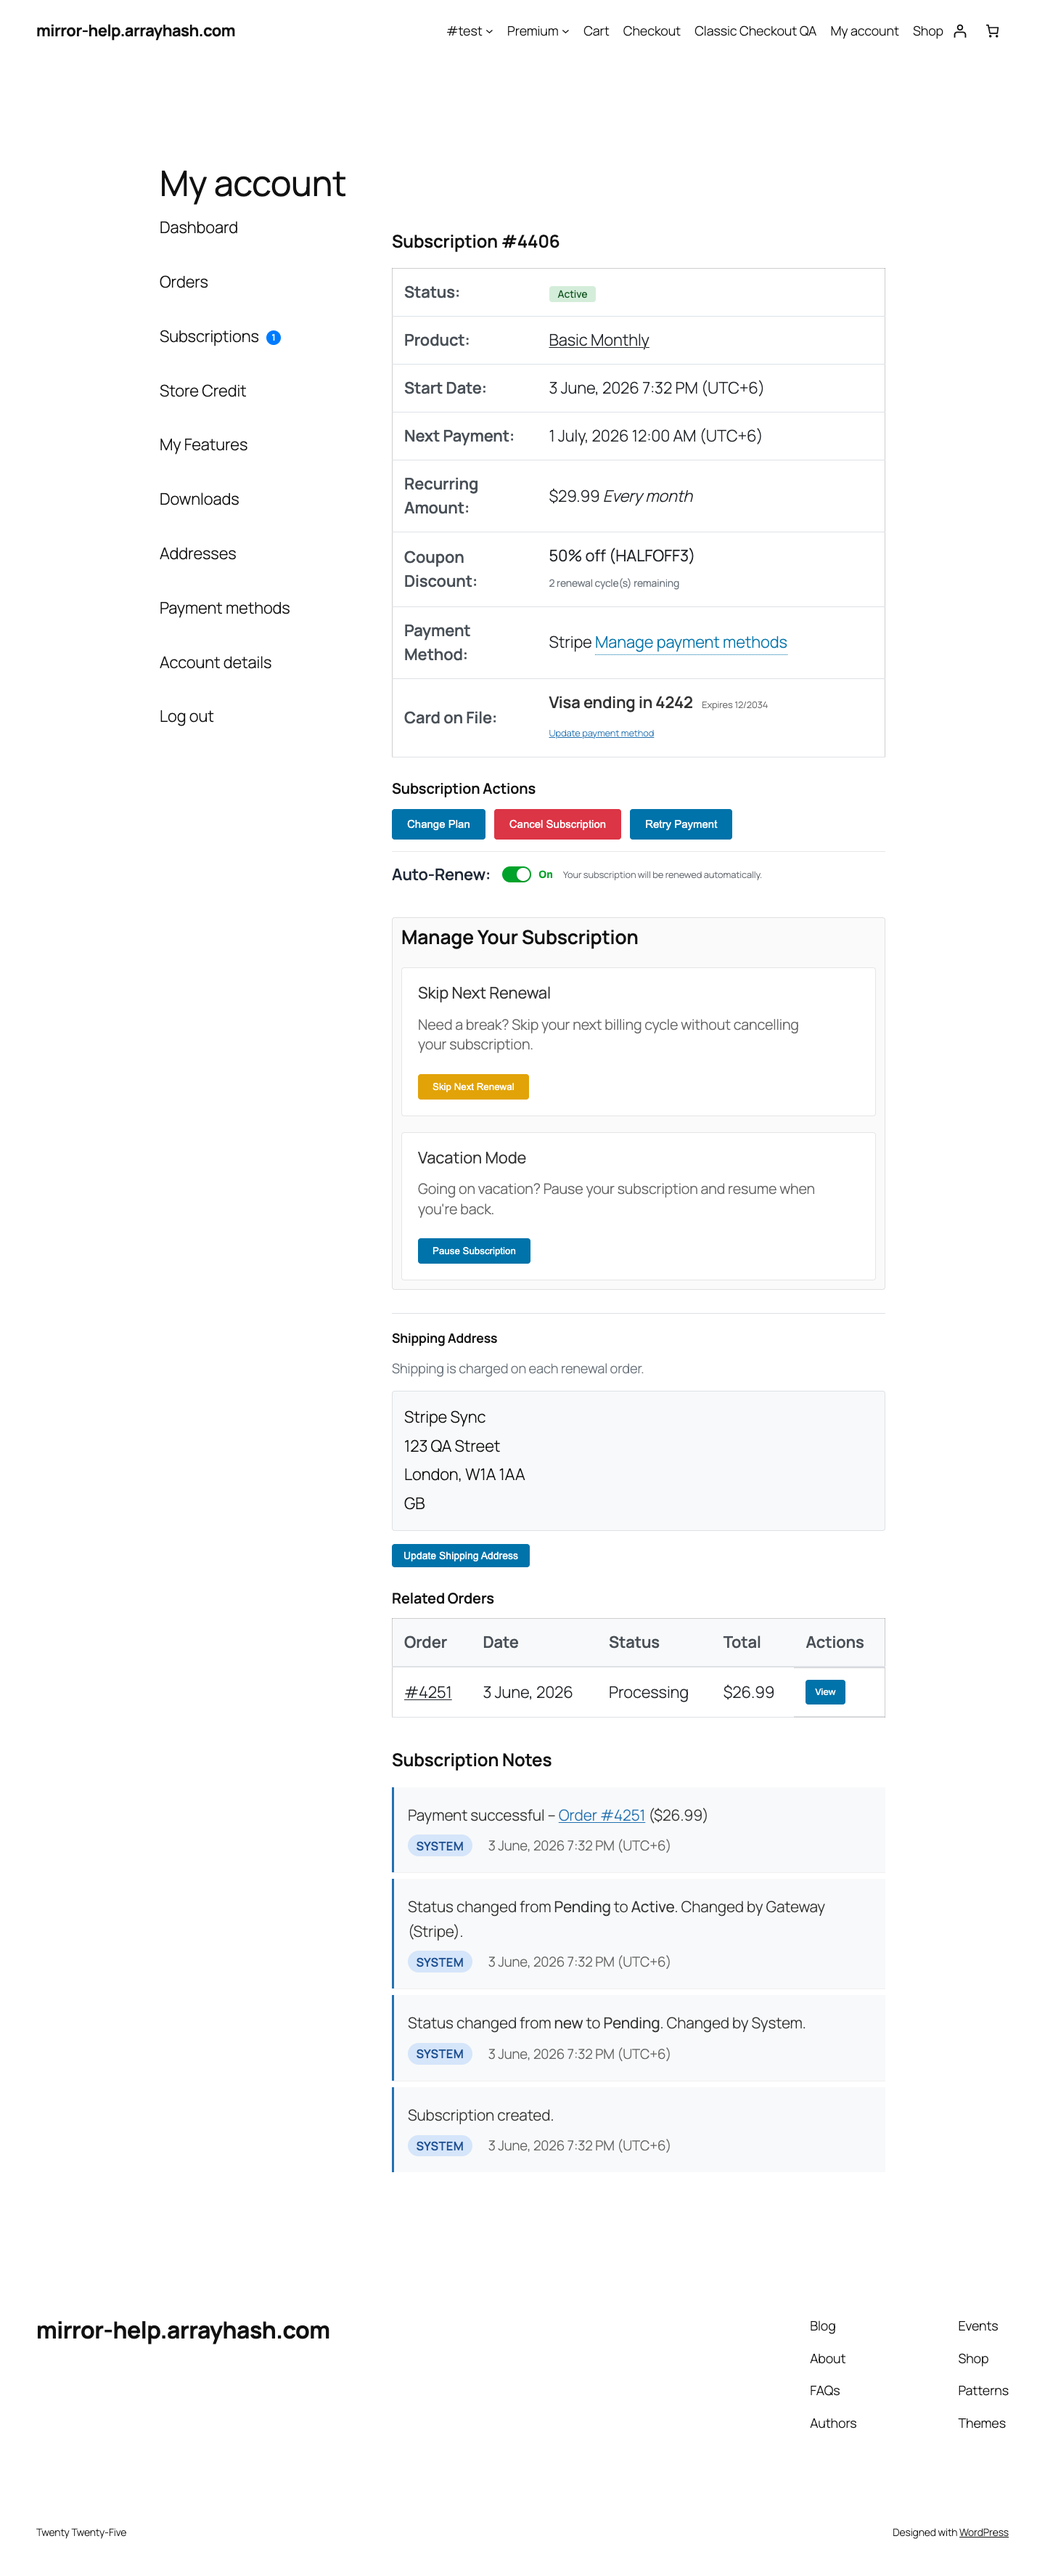
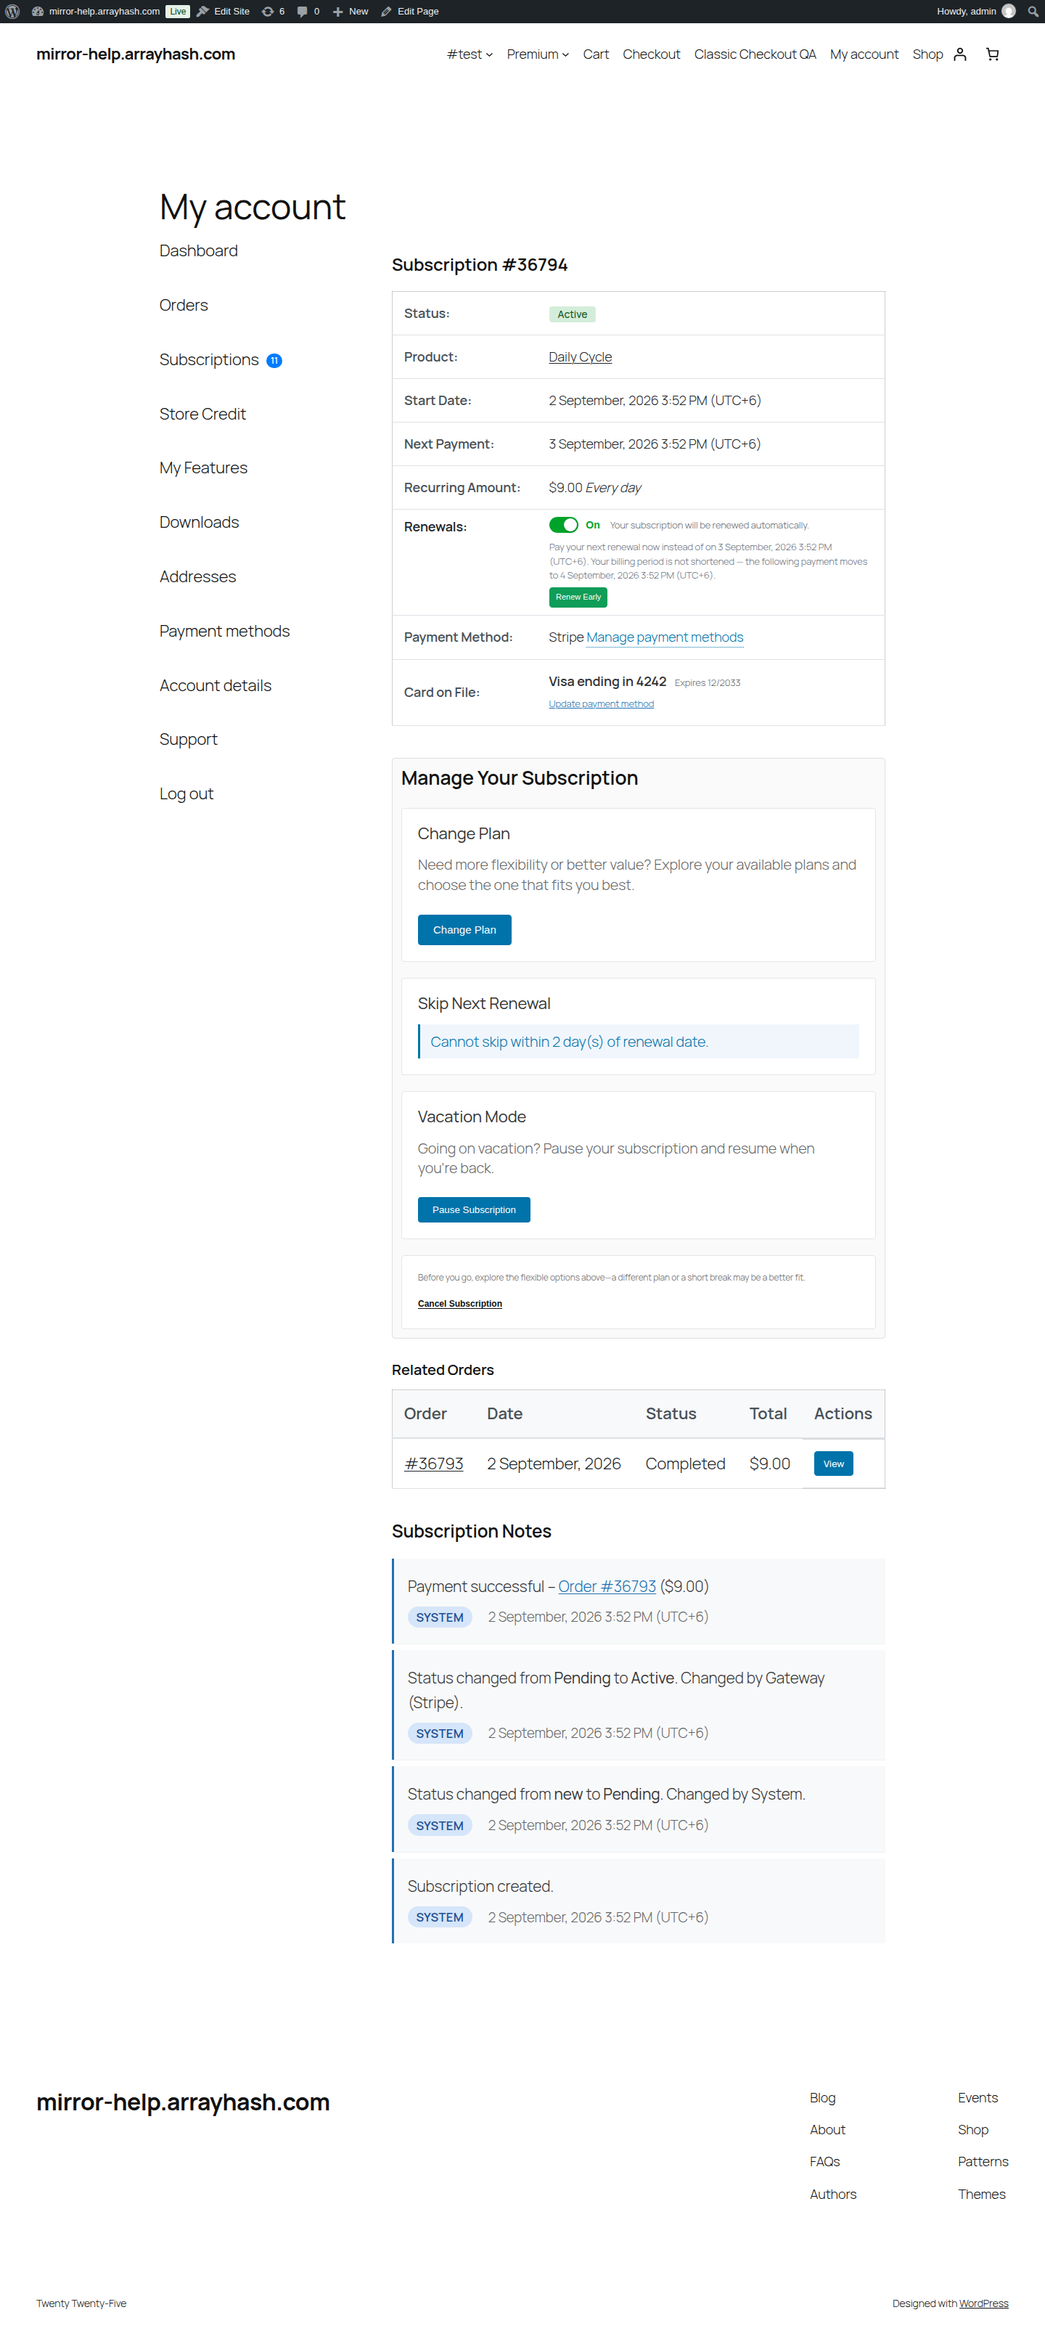
chore: sync local changes

diff --git a/markdowns/customer-portal/self-service-actions.md b/markdowns/customer-portal/self-service-actions.md
@@ -1,7 +1,7 @@
 # Info
 - Module: Subscription Self-Service Actions
 - Availability: Shared
-- Last updated: 2026-07-23
+- Last updated: 2026-09-02
 
 # Subscription Self-Service Actions
 
@@ -20,11 +20,11 @@
 
 ## Overview
 
-The subscription detail page in the customer portal shows action buttons and controls based on the subscription's current status and your store settings. Customers can only see actions they are actually permitted to take. If you disable a feature in settings, the corresponding button simply does not appear.
+The subscription detail page in the customer portal shows renewal controls in the overview table and focused action cards under **Manage Your Subscription**, based on the subscription's current status and your store settings. Customers can only see actions they are actually permitted to take. If you disable a feature in settings, the corresponding control simply does not appear.
 
 This guide covers every self-service action, when it is available, what the customer experiences, and what happens to the subscription afterward.
 
-![Self-service actions on the subscription detail page](self-service-actions.ASSETS/01-self-service-actions-overview-annotated.png)
+![Self-service actions on the updated subscription detail page](portal-pages.ASSETS/02-view-subscription-page-original.png)
 
 ## When to Use This
 
@@ -48,7 +48,7 @@ Cancellation lets customers end their subscription. Depending on your settings, 
 
 ### When It Appears
 
-The **Cancel Subscription** button appears on the detail page when all of these are true:
+The **Cancel Subscription** text link appears in the final **Manage Your Subscription** card when all of these are true:
 
 - Customer cancellation is enabled: **General Settings → Customer Actions → Allow Cancellation**
 - The subscription status is **Active**, **Trial**, or **Pending**
@@ -56,7 +56,7 @@ The **Cancel Subscription** button appears on the detail page when all of these 
 
 ### Cancellation Flow
 
-1. The customer clicks **Cancel Subscription**.
+1. The customer clicks the **Cancel Subscription** link.
 2. A modal dialog opens.
 
 ![Cancel Subscription modal requiring a reason](self-service-actions.ASSETS/02-cancel-subscription-modal-annotated.png)
@@ -332,11 +332,11 @@ Early Renew lets customers pay their next renewal **before** its scheduled due d
 
 **Availability:** Pro
 
-![Renew Early button and helper text in the Subscription Actions section](self-service-actions.ASSETS/07-early-renew-action-annotated.png)
+![Renew Early helper text and compact action in the Renewals row](self-service-actions.ASSETS/07-early-renew-action-original.png)
 
 ### When It Appears
 
-The **Renew Early** button appears in the **Subscription Actions** section when all of these are true:
+The **Renew Early** button appears in the **Renewals** row of the subscription overview table when all of these are true:
 
 - Early renew is enabled: **General Settings → Customer Actions → Allow Early Renew**
 - The subscription status is **Active** (trials are excluded — the customer has not been billed a first full cycle yet)
@@ -345,7 +345,7 @@ The **Renew Early** button appears in the **Subscription Actions** section when 
 - There is no unpaid renewal invoice already waiting, and no skipped renewal scheduled
 - The subscription's gateway supports early renewal — see **Gateway support** below
 
-The helper text next to the button spells out the current due date and where the next payment moves to, so the customer knows exactly what will happen before they click.
+The helper text above the compact button spells out the current due date and where the next payment moves to, so the customer knows exactly what will happen before they click.
 
 ### Gateway Support
 
@@ -365,7 +365,7 @@ PayPal and Paddle manage the recurring billing date on their own systems and giv
 1. The customer clicks **Renew Early**.
 2. A confirmation dialog opens, showing the amount, the original due date, and the new next-payment date.
 
-![Renew Early confirmation dialog showing amount and dates](self-service-actions.ASSETS/08-early-renew-confirm-annotated.png)
+![Renew Early confirmation dialog showing amount and dates](self-service-actions.ASSETS/08-early-renew-confirm-original.png)
 
 3. The customer clicks **Renew Now**:
    - **Stripe (automatic):** the saved card is charged right away. On success the customer sees a confirmation and the page reloads with the new next-payment date.
@@ -439,7 +439,7 @@ This table summarizes which actions are available based on subscription status:
 
 | Problem | Likely Cause | What to Do |
 |---|---|---|
-| Customer cannot see the Cancel button | Cancellation is disabled in settings, or the subscription is already cancelled/expired | Check **General Settings → Customer Actions → Allow Cancellation** and verify the subscription status |
+| Customer cannot see the Cancel Subscription link | Cancellation is disabled in settings, or the subscription is already cancelled/expired | Check **General Settings → Customer Actions → Allow Cancellation** and verify the subscription status |
 | Customer cannot see the Change Plan button | Plan switching is disabled, the subscription is not Active, or no linked products are configured | Check **General Settings → Customer Actions → Allow Plan Switching**, verify the subscription is Active, and confirm that upgrade/downgrade products are linked on the product |
 | Skip or Pause section is missing | Skip or pause features are disabled in settings, or the subscription is not in Active/Trial status | Check **General Settings → Skip & Renewal** and **Pause Subscription** settings |
 | Retention offers are not appearing | The Retention Flow feature is disabled, or no offers are configured, or the subscription does not meet offer eligibility conditions | Check the **Retention Flow** admin page for enabled offers and their eligibility rules |

diff --git a/markdowns/customer-portal/portal-pages.md b/markdowns/customer-portal/portal-pages.md
@@ -1,7 +1,7 @@
 # Info
 - Module: Customer Portal Pages
 - Availability: Shared
-- Last updated: 2026-04-01
+- Last updated: 2026-09-02
 
 # Customer Portal Pages
 
@@ -73,9 +73,9 @@ Clicking **View** on any subscription from the list page opens the detail page f
 
 **URL path:** `/my-account/view-subscription/{id}/`
 
-![View Subscription detail page with actions, orders, and notes](portal-pages.ASSETS/02-view-subscription-page-annotated.png)
+![View Subscription detail page with Renewals, management cards, orders, and notes](portal-pages.ASSETS/02-view-subscription-page-original.png)
 
-This page contains the complete subscription overview, action buttons, skip and pause controls, shipping address, related orders, refund history, and subscription notes.
+This page contains the complete subscription overview, renewal controls, customer management cards, shipping address when applicable, related orders, refund history, and subscription notes.
 
 ### Subscription Overview Table
 
@@ -89,8 +89,10 @@ The top section shows a detailed information table:
 | **Next Payment** | The next renewal date, or "Lifetime Deal — No recurring payment" for lifetime subscriptions | Active and On-Hold only |
 | **End Date** | The date the subscription will end | Only if an end date is set |
 | **Recurring Amount** | The effective price per billing cycle with the billing schedule | Always |
+| **Renewals** | Auto-renew status and toggle, plus Renew Early details and action when available | When at least one renewal control is available |
 | **Coupon Discount** | Applied coupon code, discount type, and remaining cycles | Only if a recurring coupon is active |
 | **Payment Method** | Payment method name with a link to manage payment methods | If a payment method is on file |
+| **Card on File** | Saved card summary, expiry, and Update payment method link | When supported by the automatic gateway |
 
 ### Recurring Amount with Discounts
 
@@ -119,22 +121,25 @@ The payment method row shows the name of the payment gateway and provides a link
 
 ---
 
-### Subscription Actions
+### Manage Your Subscription
 
-Below the overview table, the subscription actions section displays buttons for major actions. This section only appears when the subscription status is **Active** or **On-Hold** and at least one action is enabled.
+Below the overview table, **Manage Your Subscription** groups each available customer action into a focused card. The section appears only when at least one plan, cancellation, retry/reactivation, skip, or pause control is available for the subscription.
 
-| Button | When It Appears |
+| Action | When It Appears |
 |---|---|
-| **Change Plan** | Subscription is Active **and** plan switching is enabled in settings **and** the product has linked upgrade/downgrade/crossgrade products |
-| **Cancel Subscription** | Customer cancellation is enabled in settings **and** the subscription is in an eligible status (Active, Trial, or Pending) **and** there is no pending cancellation already scheduled |
+| **Change Plan** | Appears in its own guidance card when the subscription is Active, plan switching is enabled, and the product has linked upgrade/downgrade/crossgrade products |
+| **Cancel Subscription** | Appears as a compact text link in the final card when customer cancellation is enabled, the subscription is eligible, and no cancellation is already scheduled |
+| **Undo Scheduled Cancellation** | Appears when an end-of-period cancellation is waiting |
+| **Retry Payment** | Appears when the latest renewal charge failed and the subscription can still be charged |
+| **Reactivate Subscription** | Appears when the subscription is eligible for customer reactivation |
 
-For full details on what happens when a customer clicks these buttons, see [Subscription Self-Service Actions](self-service-actions.md).
+For full details on what happens when a customer uses these actions, see [Subscription Self-Service Actions](self-service-actions.md).
 
 ---
 
-### Skip and Pause Section
+### Skip and Pause Controls
 
-If skip or pause features are enabled and the subscription is in an eligible status, a **Manage Your Subscription** section appears with skip and pause controls.
+If skip or pause features are enabled and the subscription is in an eligible status, their cards appear alongside the other controls in **Manage Your Subscription**.
 
 #### Skip Next Renewal
 

diff --git a/markdowns/customer-portal/README.md b/markdowns/customer-portal/README.md
@@ -1,7 +1,7 @@
 # Info
 - Module: Customer Portal
 - Availability: Shared
-- Last updated: 2026-04-01
+- Last updated: 2026-09-02
 
 # Customer Portal
 
@@ -47,11 +47,11 @@ Managing payment methods, the auto-renew toggle *(Pro)*, and updating the shippi
 
 The customer portal builds on the standard WooCommerce My Account page. When ArraySubs is active, it registers custom endpoints and adds menu items to the account navigation. Customers see a **Subscriptions** link that takes them to a list of their subscriptions. Clicking **View** on any subscription opens the detail page where all self-service actions are available.
 
-![Customer subscription detail overview](README.ASSETS/02-subscription-detail-overview-annotated.png)
+![Customer subscription detail overview with Renewals and management controls](portal-pages.ASSETS/02-view-subscription-page-original.png)
 
 If you want to rename or reorder the **Subscriptions** tab itself, use **ArraySubs → Profile Builder → My Account**.
 
-The portal respects your store's settings. If you have disabled customer cancellation, the cancel button does not appear. If skip or pause features are turned off, those sections are hidden. Customers only see actions they are permitted to take on their current subscription.
+The portal respects your store's settings. Renewal controls such as auto-renew and Renew Early appear in the **Renewals** row of the overview table. Customer actions appear as focused cards under **Manage Your Subscription**. If you have disabled customer cancellation, the cancellation link does not appear. If skip or pause features are turned off, those cards are hidden. Customers only see actions they are permitted to take on their current subscription.
 
 ## Quick Reference
 

diff --git a/kanban/tasks/119-refresh-customer-portal-subscription-detail.md b/kanban/tasks/119-refresh-customer-portal-subscription-detail.md
@@ -1,0 +1,27 @@
+---
+id: 119
+title: 'Refresh: customer portal subscription detail screenshots'
+status: done
+priority: high
+created: 2026-09-02T20:09:11.829969555+02:00
+updated: 2026-09-02T20:16:18.376310974+02:00
+started: 2026-09-02T20:09:18.07081717+02:00
+completed: 2026-09-02T20:16:18.376309782+02:00
+tags:
+    - screenshots
+    - customer-portal
+class: standard
+---
+
+Refresh the unmarked My Account subscription-detail screenshots after the September 2026 portal layout update. Update stale markdown copy to match the live UI. User explicitly requested no annotations and approved documentation text fixes.
+
+[[2026-09-02]] Wed 20:16
+Captured and verified three unmarked screenshots from subscription #36794:
+
+1. portal-pages.ASSETS/02-view-subscription-page-original.png — canonical full-page subscription detail overview, reused by the customer portal overview, portal pages, payment and shipping, and self-service guides.
+2. self-service-actions.ASSETS/07-early-renew-action-original.png — focused Renewals row showing the auto-renew control, helper text, compact Renew Early action, payment method, and card on file.
+3. self-service-actions.ASSETS/08-early-renew-confirm-original.png — Renew Early confirmation dialog with amount and payment-date details.
+
+Markers: None requested. All screenshots are original, unannotated captures.
+
+Updated README.md, portal-pages.md, payment-and-shipping.md, and self-service-actions.md to match the current Renewals row, Manage Your Subscription cards, cancellation link, and Renew Early placement. Validation: all assets exist, image dimensions verified, git diff check passed, and npm run build completed with 119 documentation pages.

diff --git a/markdowns/customer-portal/payment-and-shipping.md b/markdowns/customer-portal/payment-and-shipping.md
@@ -1,7 +1,7 @@
 # Info
 - Module: Payment and Shipping Actions
 - Availability: Shared
-- Last updated: 2026-04-28
+- Last updated: 2026-09-02
 
 # Payment and Shipping Actions
 
@@ -42,7 +42,7 @@ Refer to this guide when:
 
 Every customer with a subscription can access their WooCommerce payment methods from the subscription detail page.
 
-![Subscription detail payment method, auto-renew, and shipping update](payment-and-shipping.ASSETS/01-payment-method-auto-renew-annotated.png)
+![Subscription detail Renewals row and payment method details](portal-pages.ASSETS/02-view-subscription-page-original.png)
 
 ### What the Customer Sees
 
@@ -98,7 +98,7 @@ The auto-renew toggle lets customers control whether their subscription renews a
 
 ### When It Appears
 
-The toggle appears below the payment method details when all of these are true:
+The toggle appears in the **Renewals** row immediately after **Recurring Amount** when all of these are true:
 - The Pro plugin is active
 - The **auto-renew toggle** is enabled globally: **General Settings → Automatic Payments → Allow Auto-Renew Toggle**
 - The subscription has an automatic payment gateway configured
